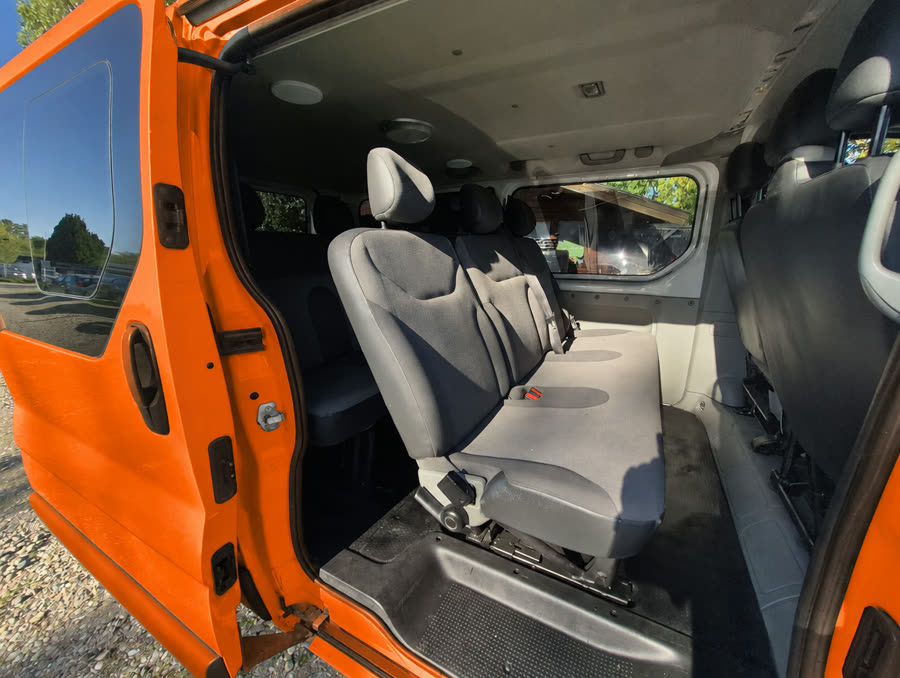
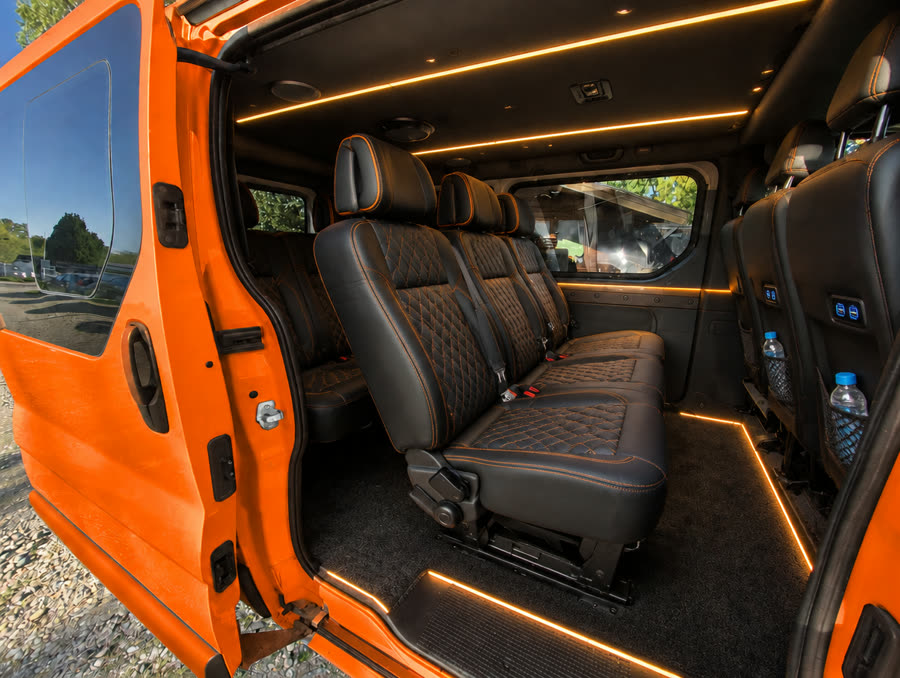
Interior de lux cu LED, Trafic cu remorcă, confort (AC, loc lejer), prețuri mai mici pentru grupuri

diff --git a/index.html b/index.html
@@ -43,6 +43,7 @@
     <a href="#" class="hd-logo"><img src="img/logo.webp" alt="BRO Transport International" width="630" height="222"></a>
     <nav class="hd-nav" aria-label="Meniu">
       <a href="#servicii">Servicii</a>
+      <a href="#confort">Confort</a>
       <a href="#masini">Mașini</a>
       <a href="#incredere">De ce noi</a>
       <a href="#intrebari">Întrebări</a>
@@ -107,7 +108,7 @@
   <section class="facts">
     <div class="wrap facts-in">
       <div><i class="bi bi-calendar-check"></i><p><b>Plecări zilnice</b><span>în ambele sensuri</span></p></div>
-      <div><i class="bi bi-house-door"></i><p><b>De la adresă la adresă</b><span>fără autogară</span></p></div>
+      <div><i class="bi bi-house-door"></i><p><b>Confort ca la business</b><span>aer condiționat, LED, apă</span></p></div>
       <div><i class="bi bi-shield-check"></i><p><b>Acoperire CMR</b><span>pentru mașini pe platformă</span></p></div>
       <div><i class="bi bi-award"></i><p><b>Echipa OptimBro</b><span>TOP 100 România 2025</span></p></div>
     </div>
@@ -122,7 +123,7 @@
       </div>
       <div class="svc">
         <article class="svc-card">
-          <img src="img/interior-banchete.jpg" alt="Banchetele din microbuzul Renault Trafic" loading="lazy" width="900" height="675">
+          <img src="img/interior-banchete.jpg" alt="Interiorul microbuzului: scaune comode și lumini LED" loading="lazy" width="900" height="675">
           <div class="svc-body">
             <h3>Persoane</h3>
             <p>Microbuz de 8+1 locuri, cu încărcătoare pentru telefon și apă la bord. Te luăm de acasă, cu bagajele tale, și te lăsăm la adresa unde mergi — fără autogară și fără schimbări.</p>
@@ -150,31 +151,34 @@
   </section>
 
   <!-- Confort -->
-  <section class="sec comfort-sec">
+  <section class="sec comfort-sec" id="confort">
     <div class="wrap">
-      <div class="sec-hd">
-        <h2>Confort pe tot drumul</h2>
-        <p>Drumul e lung, așa că ne-am gândit la tot ce contează pentru tine.</p>
+      <div class="lux">
+        <div class="lux-photo">
+          <img src="img/interior-lux.jpg" alt="Interiorul microbuzului: scaune comode, lumini LED ambientale, aer condiționat" loading="lazy" width="900" height="600">
+          <span class="lux-badge"><i class="bi bi-stars"></i> Interior cu lumini LED</span>
+        </div>
+        <div class="lux-text">
+          <h2>Călătorești lejer, ca la clasa business</h2>
+          <p class="lead">Drumul e lung, așa că am făcut din el o plăcere. Stai comod, ai loc pentru picioare și tot ce-ți trebuie la îndemână.</p>
+          <div class="comfort">
+            <div class="cf"><i class="bi bi-snow2"></i><div><b>Aer condiționat</b><span>Răcoare vara, cald iarna, pe tot drumul.</span></div></div>
+            <div class="cf"><i class="bi bi-arrows-expand"></i><div><b>Stai lejer</b><span>Loc generos pentru picioare, nu stai înghesuit.</span></div></div>
+            <div class="cf"><i class="bi bi-lightbulb"></i><div><b>Lumini LED ambientale</b><span>Atmosferă plăcută și seara, la drum lung.</span></div></div>
+            <div class="cf"><i class="bi bi-phone-vibrate"></i><div><b>Încărcătoare</b><span>Minimul de confort: telefonul mereu încărcat.</span></div></div>
+            <div class="cf cf-max"><i class="bi bi-cup-straw"></i><div><b>Apă la bord</b><span>Maximul de confort: apă pentru fiecare pasager.</span></div></div>
+            <div class="cf"><i class="bi bi-cup-hot"></i><div><b>Pauze pe drum</b><span>Opriri regulate ca să te dezmorțești.</span></div></div>
+          </div>
+        </div>
       </div>
-      <div class="comfort">
-        <article class="cf">
-          <p class="cf-tag">Minimul de confort</p>
-          <i class="bi bi-phone-vibrate cf-ic"></i>
-          <h3>Încărcătoare pentru telefon</h3>
-          <p>Ajungi cu telefonul încărcat. Avem încărcătoare la bord, ca să poți vorbi cu familia și să ai GPS-ul pornit până la destinație.</p>
-        </article>
-        <article class="cf cf-max">
-          <p class="cf-tag">Maximul de confort</p>
-          <i class="bi bi-cup-straw cf-ic"></i>
-          <h3>Apă la bord</h3>
-          <p>Apă pentru fiecare pasager, pe tot drumul. Nu trebuie să cauți benzinării — ai tot ce-ți trebuie în mașină.</p>
-        </article>
-        <article class="cf">
-          <p class="cf-tag">Pe drum</p>
-          <i class="bi bi-cup-hot cf-ic"></i>
-          <h3>Pauze și bagaje incluse</h3>
-          <p>Facem opriri regulate ca să te poți dezmorți, iar bagajele tale au loc în spate, separat de pasageri.</p>
-        </article>
+
+      <div class="group">
+        <div class="group-ic"><i class="bi bi-people-fill"></i></div>
+        <div class="group-txt">
+          <h3>Mergeți mai mulți? Prețuri mai mici pentru grupuri</h3>
+          <p>Familii, prieteni sau colegi de muncă — cu cât sunteți mai mulți, cu atât plătește fiecare mai puțin. Întreabă-ne de prețul pentru grup.</p>
+        </div>
+        <a class="btn btn-dark" href="https://wa.me/40790752888?text=Bun%C4%83%20ziua!%20Suntem%20un%20grup%20%C8%99i%20a%C8%99%20dori%20o%20ofert%C4%83." target="_blank" rel="noopener"><i class="bi bi-whatsapp"></i> Preț pentru grup</a>
       </div>
     </div>
   </section>
@@ -184,7 +188,7 @@
     <div class="wrap">
       <div class="sec-hd">
         <h2>Cu ce mergem</h2>
-        <p>Mașinile noastre, nu închiriate și nu de la terți.</p>
+        <p>Mașinile noastre, toate în culorile BRO. Nu închiriate și nu de la terți.</p>
       </div>
       <div class="cars">
         <article class="car">
@@ -192,9 +196,20 @@
           <div class="car-body">
             <h3>Renault Trafic</h3>
             <ul>
+              <li><i class="bi bi-person-fill"></i> 8+1 locuri, loc lejer pentru picioare</li>
+              <li><i class="bi bi-snow2"></i> Aer condiționat</li>
+              <li><i class="bi bi-lightbulb-fill"></i> Lumini LED, încărcătoare, apă</li>
+            </ul>
+          </div>
+        </article>
+        <article class="car">
+          <div class="car-img"><img src="img/trafic-remorca.jpg" alt="Renault Trafic portocaliu BRO cu remorcă acoperită" loading="lazy" width="900" height="600"></div>
+          <div class="car-body">
+            <h3>Renault Trafic + remorcă</h3>
+            <ul>
               <li><i class="bi bi-person-fill"></i> 8+1 locuri</li>
-              <li><i class="bi bi-suitcase2-fill"></i> Loc de bagaje în spate</li>
-              <li><i class="bi bi-window"></i> Geamuri pe toată lungimea</li>
+              <li><i class="bi bi-box-seam-fill"></i> Remorcă pentru bagaje și colete</li>
+              <li><i class="bi bi-cloud-rain-fill"></i> Totul ferit de ploaie și praf</li>
             </ul>
           </div>
         </article>
@@ -204,8 +219,8 @@
             <h3>Volkswagen Sharan + remorcă</h3>
             <ul>
               <li><i class="bi bi-person-fill"></i> 7 locuri</li>
+              <li><i class="bi bi-snow2"></i> Aer condiționat</li>
               <li><i class="bi bi-box-seam-fill"></i> Remorcă acoperită cu prelată</li>
-              <li><i class="bi bi-cloud-rain-fill"></i> Colete mari, ferite de ploaie</li>
             </ul>
           </div>
         </article>
@@ -261,6 +276,7 @@
         <details><summary>De unde mă luați și unde mă lăsați?</summary><p>Direct de la adresa ta până la adresa unde mergi. Nu trebuie să ajungi la autogară sau într-un punct de întâlnire.</p></details>
         <details><summary>Pot trimite un colet fără să călătoresc?</summary><p>Da. Ridicăm coletul de la tine și îl predăm destinatarului, oriunde în România, Austria, Germania, Olanda sau Belgia.</p></details>
         <details><summary>Cât costă?</summary><p>Prețul depinde de traseu și de ce transportăm. Îl afli exact la telefon sau pe WhatsApp, înainte de plecare.</p></details>
+        <details><summary>Aveți prețuri mai mici pentru grupuri?</summary><p>Da. Dacă mergeți mai mulți — familie, prieteni sau colegi — prețul pe persoană e mai mic. Spune-ne câți sunteți și îți facem o ofertă pentru grup.</p></details>
         <details><summary>Aduceți și mașini cumpărate din străinătate?</summary><p>Da. Preluăm autoturismul de la vânzător sau dealer și îl aducem pe platformă până la adresa ta, cu acoperire CMR conform condițiilor transportului.</p></details>
         <details><summary>Cât de des plecați?</summary><p>Avem plecări zilnice pe ruta România – Austria – Germania – Olanda – Belgia, în ambele sensuri. Sună-ne și îți spunem prima plecare disponibilă.</p></details>
       </div>

diff --git a/assets/css/site.css b/assets/css/site.css
@@ -220,15 +220,38 @@ h1, h2, h3 { color: var(--ink); margin: 0; line-height: 1.2; letter-spacing: -.0
 }
 @media (prefers-reduced-motion: reduce) { html { scroll-behavior: auto; } }
 
-/* Confort la bord */
-.comfort-sec { padding-top: 0; }
-.comfort { display: grid; grid-template-columns: repeat(3, 1fr); gap: 20px; }
-.cf { border: 1px solid var(--line); border-radius: var(--r); padding: 24px 22px; background: #fff; }
-.cf-tag { margin: 0 0 14px; font-size: 13px; font-weight: 700; text-transform: uppercase; letter-spacing: .06em; color: var(--mut); }
-.cf-ic { font-size: 32px; color: var(--or); display: block; margin-bottom: 10px; }
-.cf h3 { font-size: 21px; font-weight: 700; }
-.cf p:last-child { margin: 8px 0 0; font-size: 15px; }
-.cf-max { background: var(--or); border-color: var(--or); color: #fff; }
-.cf-max .cf-tag { color: rgba(255, 255, 255, .85); }
-.cf-max .cf-ic, .cf-max h3 { color: #fff; }
-@media (max-width: 980px) { .comfort { grid-template-columns: 1fr; } }
+/* Confort */
+.lux { display: grid; grid-template-columns: 1fr 1.05fr; gap: 48px; align-items: center; }
+.lux-photo { position: relative; }
+.lux-photo img { border-radius: var(--r); width: 100%; aspect-ratio: 3 / 2; object-fit: cover; }
+.lux-badge { position: absolute; left: 16px; bottom: 16px; background: rgba(22, 24, 28, .85); color: #fff; padding: 8px 14px; border-radius: 999px; font-weight: 600; font-size: 14px; }
+.lux-badge i { color: var(--or); margin-right: 4px; }
+.lux-text h2 { font-size: clamp(26px, 3vw, 36px); font-weight: 800; }
+.lux-text .lead { margin: 12px 0 24px; font-size: 17px; }
+.comfort { display: grid; grid-template-columns: 1fr 1fr; gap: 12px; }
+.cf { display: flex; gap: 12px; padding: 14px; border-radius: 12px; background: var(--grey); }
+.cf i { font-size: 22px; color: var(--or); line-height: 1.2; flex: none; }
+.cf b { display: block; color: var(--ink); font-size: 16px; }
+.cf span { display: block; font-size: 14px; color: var(--mut); line-height: 1.4; }
+.cf-max { background: var(--or); }
+.cf-max i, .cf-max b, .cf-max span { color: #fff; }
+.group { margin-top: 40px; display: flex; align-items: center; gap: 20px; padding: 24px 28px; border-radius: var(--r); background: #fff1e7; border: 1px solid #fbd5b8; }
+.group-ic { width: 56px; height: 56px; border-radius: 50%; background: var(--or); color: #fff; display: grid; place-items: center; font-size: 26px; flex: none; }
+.group-txt { flex: 1; }
+.group h3 { font-size: 20px; font-weight: 700; }
+.group p { margin: 4px 0 0; font-size: 15px; }
+.group .btn { flex: none; }
+.cars { grid-template-columns: repeat(3, 1fr); }
+.car { grid-template-columns: 1fr; align-items: start; }
+.car-body { padding: 0 22px 22px; }
+@media (max-width: 980px) {
+  .lux { grid-template-columns: 1fr; gap: 28px; }
+  .group { flex-wrap: wrap; }
+  .cars { grid-template-columns: 1fr 1fr; }
+}
+@media (max-width: 640px) {
+  .comfort { grid-template-columns: 1fr; }
+  .group { padding: 20px; gap: 14px; }
+  .group .btn { width: 100%; }
+  .cars { grid-template-columns: 1fr; }
+}
